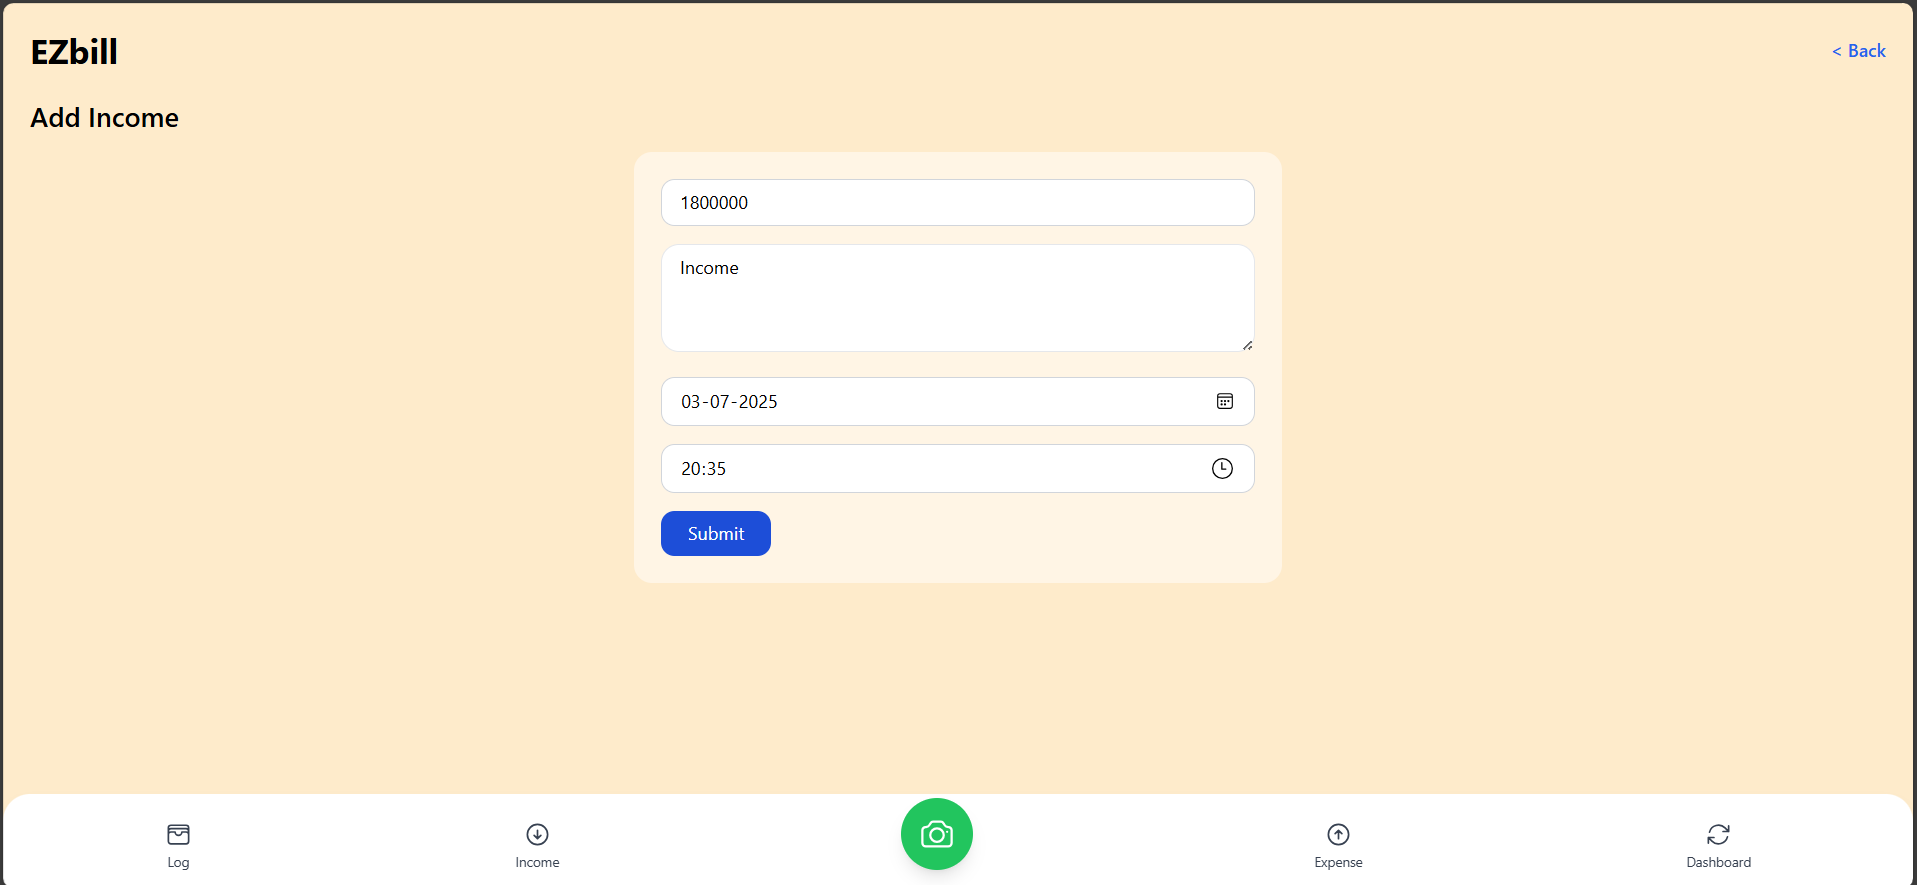
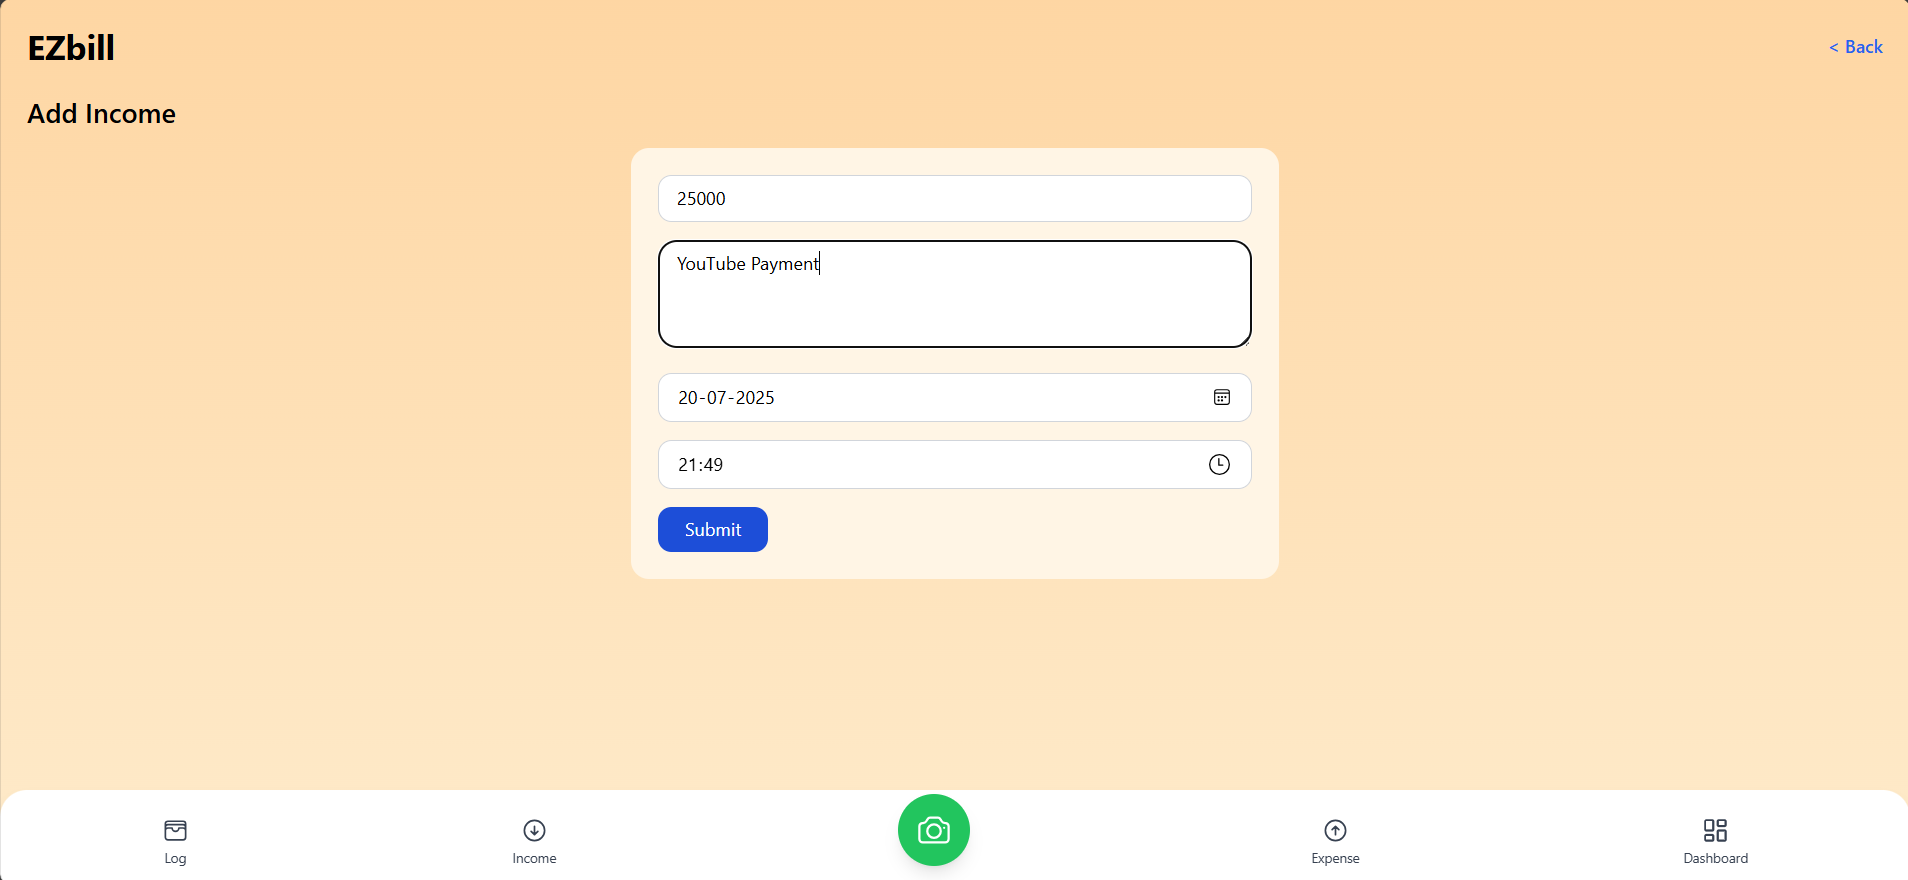
Fixed Screenshots and color inconsistencies

diff --git a/ezbill_frontend/src/pages/Dashboard.jsx b/ezbill_frontend/src/pages/Dashboard.jsx
@@ -116,7 +116,7 @@ export default function DashboardPage() {
     const hasAnalyticsData = data.weekly_analytics.some(entry => entry.amount > 0);
 
     return (
-        <div className="relative p-6 bg-orange-50 min-h-screen rounded-xl font-sans text-gray-800 pb-28">
+        <div className="relative p-6 bg-gradient-to-b from-[#FED6A3] to-[#FEEBCB] min-h-screen rounded-xl font-sans text-gray-800 pb-28">
             <div className="flex items-center justify-between mb-6">
                 <h1 className="text-3xl font-bold">EZbill</h1>
 
@@ -263,14 +263,7 @@ export default function DashboardPage() {
                 </div>
             )}
 
-
-
             <div className="absolute bottom-32 left-6 w-24 h-24 bg-cover bg-center" style={{ backgroundImage: "url('/path/to/your/money_character.png')" }}>
-                <div className="w-24 h-24 bg-green-200 rounded-full flex items-center justify-center text-4xl" title="Happy Money Character">
-                    💶
-                </div>
-
-
                 <BottomNav />
             </div>
 

diff --git a/ezbill_frontend/src/components/BottomNav.jsx b/ezbill_frontend/src/components/BottomNav.jsx
@@ -5,11 +5,10 @@ import {
   WalletIcon,
   ArrowDownCircleIcon,
   ArrowUpCircleIcon,
-  ArrowPathIcon,
-  PlusIcon,
   CameraIcon
 } from "@heroicons/react/24/outline";
 import { useNavigate } from "react-router-dom";
+import { LayoutDashboardIcon } from "lucide-react";
 
 const BottomNav = () => {
   const navigate = useNavigate();
@@ -64,7 +63,7 @@ const BottomNav = () => {
         className="flex flex-col items-center text-gray-700 hover:text-purple-600 transition-colors -mt-10"
         onClick={() => navigate("/dashboard")}
       >
-        <ArrowPathIcon className="w-6 h-6 mb-1" />
+        <LayoutDashboardIcon className="w-6 h-6 mb-1" />
         <span className="text-xs">Dashboard</span>
       </button>
     </div>

diff --git a/ezbill_frontend/src/pages/AddExpensePage.jsx b/ezbill_frontend/src/pages/AddExpensePage.jsx
@@ -55,7 +55,7 @@ export default function AddExpensePage() {
   };
 
   return (
-    <div className="min-h-screen bg-[#FEEBCB] p-6 font-sans">
+    <div className="min-h-screen bg-gradient-to-b from-[#FED6A3] to-[#FEEBCB] p-6 font-sans">
       <div className="flex justify-between items-center mb-6">
         <h1 className="text-3xl font-bold">EZbill</h1>
         <a href="/dashboard" className="text-md font-medium text-blue-600">&lt; Back</a>

diff --git a/ezbill_frontend/src/pages/AuthPage.jsx b/ezbill_frontend/src/pages/AuthPage.jsx
@@ -46,7 +46,7 @@ export default function AuthPage({ type = "login" }) {
 };
 
   return (
-    <div className="min-h-screen flex items-center justify-center bg-[#fcd7b7] p-4">
+    <div className="min-h-screen flex items-center justify-center bg-gradient-to-b from-[#FED6A3] to-[#FEEBCB] p-4">
       <Card className="max-w-sm w-full">
         <CardContent>
           <h2 className="text-2xl font-bold mb-6 text-center">

diff --git a/ezbill_frontend/src/pages/AddIncomePage.jsx b/ezbill_frontend/src/pages/AddIncomePage.jsx
@@ -57,7 +57,7 @@ function AddIncomePage() {
   };
 
   return (
-    <div className="min-h-screen bg-[#FEEBCB] p-6 font-sans">
+    <div className="min-h-screen bg-gradient-to-b from-[#FED6A3] to-[#FEEBCB] p-6 font-sans">
       <div className="flex justify-between items-center mb-6">
         <h1 className="text-3xl font-bold">EZbill</h1>
         <a href="/dashboard" className="text-md font-medium text-blue-600">
